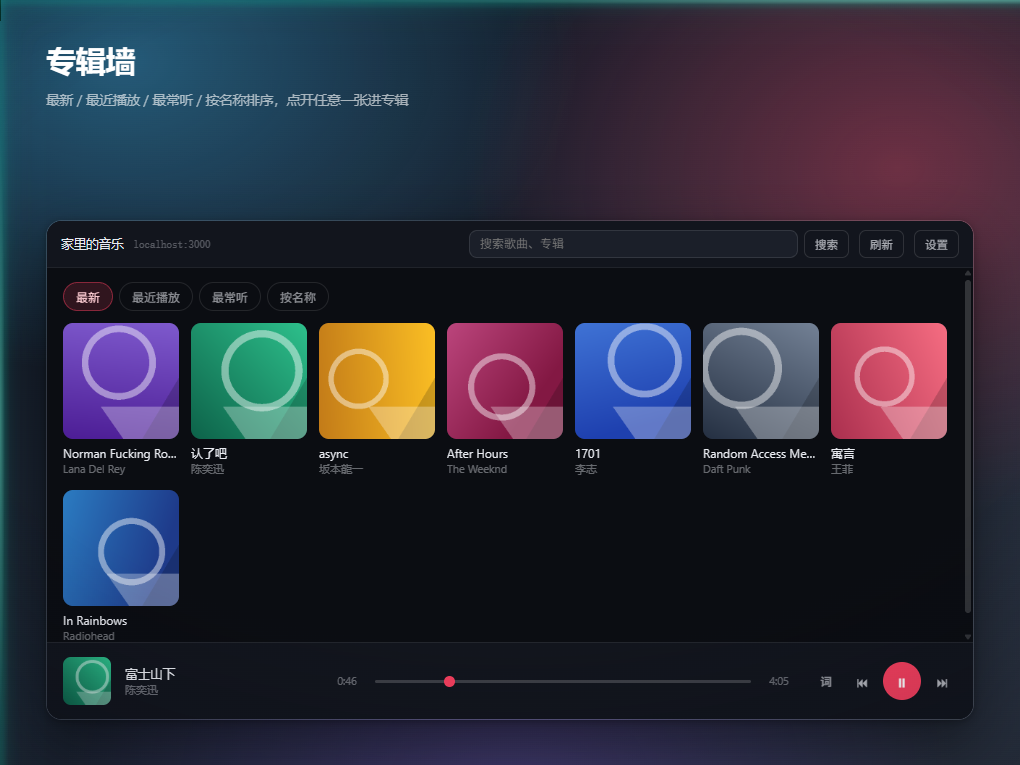
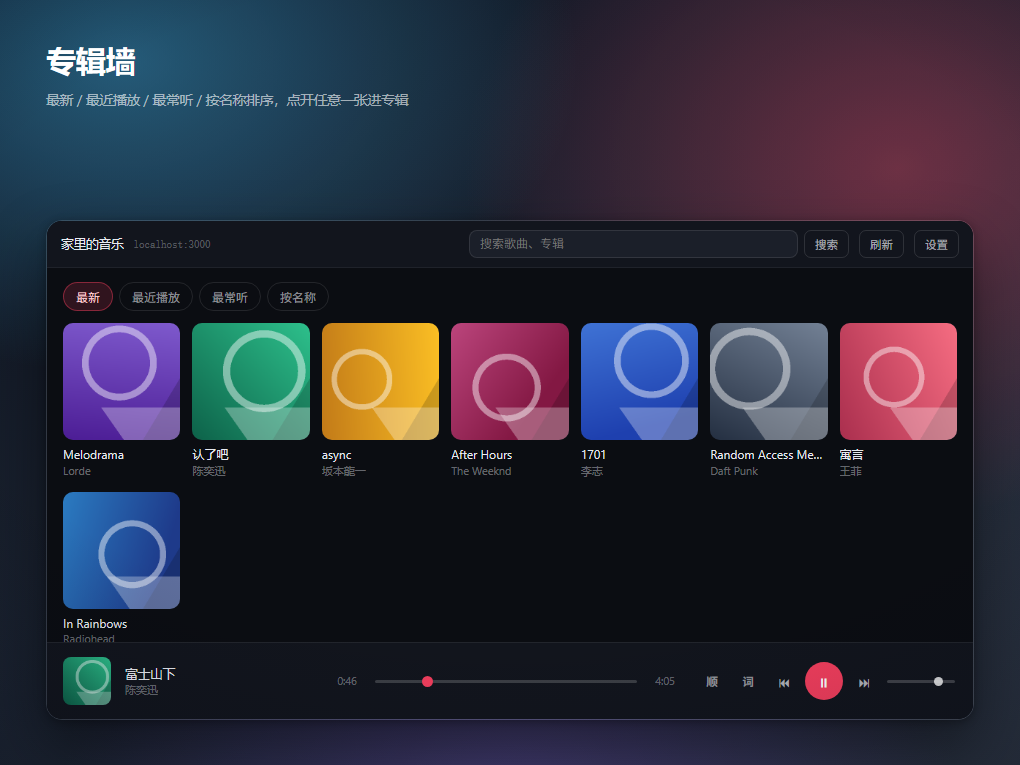
docs(music): 3.0.2 商店截图按新卡片重拍
- 4 张图重新用无头 Chrome 按 1020×765 出图，替代旧的 1xfull 版式
- 示例专辑换成无敏感词内容（Lana Del Rey → Lorde / Melodrama）

diff --git a/music/tools/mock-subsonic.js b/music/tools/mock-subsonic.js
@@ -115,9 +115,9 @@ function makeCover(seed, size = 320) {
 }
 
 // ---------- 假数据 ----------
-const ARTISTS = ['Lana Del Rey', '陈奕迅', '坂本龍一', 'The Weeknd', '李志', 'Daft Punk', '王菲', 'Radiohead'];
+const ARTISTS = ['Lorde', '陈奕迅', '坂本龍一', 'The Weeknd', '李志', 'Daft Punk', '王菲', 'Radiohead'];
 const ALBUMS = [
-  { id: 'a1', name: 'Norman Fucking Rockwell!', artist: 'Lana Del Rey', year: 2019 },
+  { id: 'a1', name: 'Melodrama', artist: 'Lorde', year: 2017 },
   { id: 'a2', name: '认了吧', artist: '陈奕迅', year: 2007 },
   { id: 'a3', name: 'async', artist: '坂本龍一', year: 2017 },
   { id: 'a4', name: 'After Hours', artist: 'The Weeknd', year: 2020 },
@@ -128,7 +128,7 @@ const ALBUMS = [
 ];
 
 const SONG_NAMES = {
-  a1: ['Norman fucking Rockwell', 'Mariners Apartment Complex', 'Venice Bitch', 'Fuck it I love you', 'Doin\' Time'],
+  a1: ['Green Light', 'Sober', 'The Louvre', 'Liability', 'Perfect Places'],
   a2: ['富士山下', '好久不见', '不如不见', '白色球鞋', '淘汰'],
   a3: ['andata', 'disintegration', 'solari', 'ZURE', 'walker'],
   a4: ['Blinding Lights', 'Save Your Tears', 'In Your Eyes', 'Faith', 'Alone Again'],

diff --git a/music/preview-store.html b/music/preview-store.html
@@ -75,9 +75,9 @@
 
       const SONGS = {
         a1: [
-          { id: 'a1-s1', title: 'Norman fucking Rockwell', artist: 'Lana Del Rey', album: 'Norman Fucking Rockwell!', albumId: 'a1', coverArt: 'a1', cover: 'a1', duration: 269 },
-          { id: 'a1-s2', title: 'Mariners Apartment Complex', artist: 'Lana Del Rey', album: 'Norman Fucking Rockwell!', albumId: 'a1', coverArt: 'a1', cover: 'a1', duration: 246 },
-          { id: 'a1-s3', title: 'Venice Bitch', artist: 'Lana Del Rey', album: 'Norman Fucking Rockwell!', albumId: 'a1', coverArt: 'a1', cover: 'a1', duration: 537 },
+          { id: 'a1-s1', title: 'Green Light', artist: 'Lorde', album: 'Melodrama', albumId: 'a1', coverArt: 'a1', cover: 'a1', duration: 227 },
+          { id: 'a1-s2', title: 'Sober', artist: 'Lorde', album: 'Melodrama', albumId: 'a1', coverArt: 'a1', cover: 'a1', duration: 197 },
+          { id: 'a1-s3', title: 'The Louvre', artist: 'Lorde', album: 'Melodrama', albumId: 'a1', coverArt: 'a1', cover: 'a1', duration: 271 },
         ],
         a2: [
           { id: 'a2-s1', title: '富士山下', artist: '陈奕迅', album: '认了吧', albumId: 'a2', coverArt: 'a2', cover: 'a2', duration: 245 },
